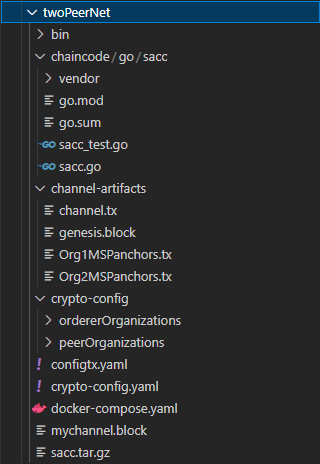
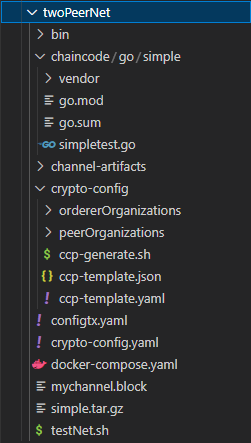
mod

Changed region(s): [[0.0, 0.0, 1.0, 0.9977]]

diff --git a/source/_posts/Project3-Deploy.md b/source/_posts/Project3-Deploy.md
@@ -541,10 +541,11 @@ $ docker exec -it cli2 bash
 
 ### 准备工作
 
-利用 fabric-samples/chaincode/sacc 进行链码测试：
+利用 caliper 中的简单转账链码进行链码测试：
 
 ```Linux
-$ cp -r /fabric-samples/chaincode/sacc /twoPeerNet/chaincode/go
+$ mkdir /twoPeerNet/chaincode/go/simple
+$ cp caliper-benchmarks/src/fabric/scenario/simple/go/* /twoPeerNet/chaincode/go/simple
 ```
 
 在 docker-compose 中，`/twoPeerNet/chaincode/go` 与容器内的目录实现了容器卷映射，将链码复制到该目录下，容器中也有了相应的链码。
@@ -558,7 +559,7 @@ $ cp -r /fabric-samples/chaincode/sacc /twoPeerNet/chaincode/go
 下载依赖：
 
 ```Linux
-# cd /opt/gopath/src/github.com/hyperledger/multiple-deployment/chaincode/go/sacc
+# cd /opt/gopath/src/github.com/hyperledger/multiple-deployment/chaincode/go/simple
 # go mod vendor
 
 # cd /opt/gopath/src/github.com/hyperledger/fabric/peer
@@ -569,15 +570,15 @@ $ cp -r /fabric-samples/chaincode/sacc /twoPeerNet/chaincode/go
 在 cli1 中打包链码：
 
 ```Linux
-# peer lifecycle chaincode package sacc.tar.gz --path /opt/gopath/src/github.com/hyperledger/multiple-deployment/chaincode/go/sacc --label sacc_1.0
+# peer lifecycle chaincode package simple.tar.gz --path /opt/gopath/src/github.com/hyperledger/multiple-deployment/chaincode/go/simple --label simple_1.0
 ```
 
 在容器外将 cli1 中打包的链码复制到 cli2：
 
 ```Linux
-$ docker cp cli1:/opt/gopath/src/github.com/hyperledger/fabric/peer/sacc.tar.gz ./
+$ docker cp cli1:/opt/gopath/src/github.com/hyperledger/fabric/peer/simple.tar.gz ./
 
-$ docker cp ./sacc.tar.gz cli2:/opt/gopath/src/github.com/hyperledger/fabric/peer
+$ docker cp ./simple.tar.gz cli2:/opt/gopath/src/github.com/hyperledger/fabric/peer
 ```
 
 ### 安装链码
@@ -585,7 +586,7 @@ $ docker cp ./sacc.tar.gz cli2:/opt/gopath/src/github.com/hyperledger/fabric/pee
 在两个 cli 中分别操作：
 
 ```Linux
-# peer lifecycle chaincode install sacc.tar.gz
+# peer lifecycle chaincode install simple.tar.gz
 ```
 
 ### 审批链码
@@ -599,13 +600,13 @@ $ docker cp ./sacc.tar.gz cli2:/opt/gopath/src/github.com/hyperledger/fabric/pee
 在两个 cli 中分别操作：
 
 ```Linux
-# peer lifecycle chaincode approveformyorg --channelID mychannel --name sacc --version 1.0 --init-required --package-id sacc_1.0:5562f868f6fd43ff8873f403aa52bc6928161fec933065d0b81e2193f6038bd0 --sequence 1 --tls true --cafile /opt/gopath/src/github.com/hyperledger/fabric/peer/crypto/ordererOrganizations/example.com/orderers/orderer.example.com/msp/tlscacerts/tlsca.example.com-cert.pem
+# peer lifecycle chaincode approveformyorg --channelID mychannel --name simple --version 1.0 --init-required --package-id simple_1.0:539969bf4773133bf852368737a5ba505443ca4d6b5eae92f5f4463fd8bbd171 --sequence 1 --tls true --cafile /opt/gopath/src/github.com/hyperledger/fabric/peer/crypto/ordererOrganizations/example.com/orderers/orderer.example.com/msp/tlscacerts/tlsca.example.com-cert.pem
 ```
 
 检测是否成功：
 
 ```Linux
-# peer lifecycle chaincode checkcommitreadiness --channelID mychannel --name sacc --version 1.0 --init-required --sequence 1 --tls true --cafile /opt/gopath/src/github.com/hyperledger/fabric/peer/crypto/ordererOrganizations/example.com/orderers/orderer.example.com/msp/tlscacerts/tlsca.example.com
+# peer lifecycle chaincode checkcommitreadiness --channelID mychannel --name simple --version 1.0 --init-required --sequence 1 --tls true --cafile /opt/gopath/src/github.com/hyperledger/fabric/peer/crypto/ordererOrganizations/example.com/orderers/orderer.example.com/msp/tlscacerts/tlsca.example.com
 ```
 
 ### 提交链码
@@ -613,33 +614,74 @@ $ docker cp ./sacc.tar.gz cli2:/opt/gopath/src/github.com/hyperledger/fabric/pee
 只需要在 cli1 执行即可：
 
 ```Linux
-# peer lifecycle chaincode commit -o orderer.example.com:7050 --channelID mychannel --name sacc --version 1.0 --init-required --sequence 1 --tls true --cafile /opt/gopath/src/github.com/hyperledger/fabric/peer/crypto/ordererOrganizations/example.com/orderers/orderer.example.com/msp/tlscacerts/tlsca.example.com-cert.pem --peerAddresses peer0.org1.example.com:7051 --tlsRootCertFiles /opt/gopath/src/github.com/hyperledger/fabric/peer/crypto/peerOrganizations/org1.example.com/peers/peer0.org1.example.com/tls/ca.crt --peerAddresses peer0.org2.example.com:8051 --tlsRootCertFiles /opt/gopath/src/github.com/hyperledger/fabric/peer/crypto/peerOrganizations/org2.example.com/peers/peer0.org2.example.com/tls/ca.crt
+# peer lifecycle chaincode commit -o orderer.example.com:7050 --channelID mychannel --name simple --version 1.0 --init-required --sequence 1 --tls true --cafile /opt/gopath/src/github.com/hyperledger/fabric/peer/crypto/ordererOrganizations/example.com/orderers/orderer.example.com/msp/tlscacerts/tlsca.example.com-cert.pem --peerAddresses peer0.org1.example.com:7051 --tlsRootCertFiles /opt/gopath/src/github.com/hyperledger/fabric/peer/crypto/peerOrganizations/org1.example.com/peers/peer0.org1.example.com/tls/ca.crt --peerAddresses peer0.org2.example.com:8051 --tlsRootCertFiles /opt/gopath/src/github.com/hyperledger/fabric/peer/crypto/peerOrganizations/org2.example.com/peers/peer0.org2.example.com/tls/ca.crt
 ```
 
 ### 调用链码
 
-```Linux
-# peer chaincode invoke -o orderer.example.com:7050 -C mychannel -n sacc --isInit --ordererTLSHostnameOverride orderer.example.com --tls true --cafile /opt/gopath/src/github.com/hyperledger/fabric/peer/crypto/ordererOrganizations/example.com/orderers/orderer.example.com/msp/tlscacerts/tlsca.example.com-cert.pem --peerAddresses peer0.org1.example.com:7051 --tlsRootCertFiles /opt/gopath/src/github.com/hyperledger/fabric/peer/crypto/peerOrganizations/org1.example.com/peers/peer0.org1.example.com/tls/ca.crt --peerAddresses peer0.org2.example.com:8051 --tlsRootCertFiles /opt/gopath/src/github.com/hyperledger/fabric/peer/crypto/peerOrganizations/org2.example.com/peers/peer0.org2.example.com/tls/ca.crt -c '{"Args":["a","bb"]}'
+初始化：
 
-# peer chaincode query -C mychannel -n sacc -c '{"Args":["query","a"]}'
+```Linux
+# peer chaincode invoke -o orderer.example.com:7050 -C mychannel -n simple --isInit --ordererTLSHostnameOverride orderer.example.com --tls true --cafile /opt/gopath/src/github.com/hyperledger/fabric/peer/crypto/ordererOrganizations/example.com/orderers/orderer.example.com/msp/tlscacerts/tlsca.example.com-cert.pem --peerAddresses peer0.org1.example.com:7051 --tlsRootCertFiles /opt/gopath/src/github.com/hyperledger/fabric/peer/crypto/peerOrganizations/org1.example.com/peers/peer0.org1.example.com/tls/ca.crt --peerAddresses peer0.org2.example.com:8051 --tlsRootCertFiles /opt/gopath/src/github.com/hyperledger/fabric/peer/crypto/peerOrganizations/org2.example.com/peers/peer0.org2.example.com/tls/ca.crt -c '{"Args":[]}'
 ```
 
-![目录](1.png)
+调用其他方法：
+
+```Linux
+# peer chaincode invoke -o orderer.example.com:7050 -C mychannel -n simple --ordererTLSHostnameOverride orderer.example.com --tls true --cafile /opt/gopath/src/github.com/hyperledger/fabric/peer/crypto/ordererOrganizations/example.com/orderers/orderer.example.com/msp/tlscacerts/tlsca.example.com-cert.pem --peerAddresses peer0.org1.example.com:7051 --tlsRootCertFiles /opt/gopath/src/github.com/hyperledger/fabric/peer/crypto/peerOrganizations/org1.example.com/peers/peer0.org1.example.com/tls/ca.crt --peerAddresses peer0.org2.example.com:8051 --tlsRootCertFiles /opt/gopath/src/github.com/hyperledger/fabric/peer/crypto/peerOrganizations/org2.example.com/peers/peer0.org2.example.com/tls/ca.crt -c '{"Args":["open","Qanly","1000"]}'
+
+# peer chaincode query -C mychannel -n simple -c '{"Args":["query","Qanly"]}'
+```
 
 ## 5 测试一下
 
-按照之前教程安装 fabcar 并使用 Caliper 测试的时候发现报错：找不到 connection-org1.yaml 这个文件，看一下 fabric-sample 网络的启动脚本发现有一个 ccp-generate.sh 脚本是用来生成这个的，把脚本和 .json .yaml 复制过来修改一下再运行就 ok 了。发现测试结果和之前的 fabric-sample 差不多：
+使用 Caliper 测试的时候发现报错：找不到 connection-org1.yaml 这个文件，看一下 fabric-sample 网络的启动脚本发现有一个 ccp-generate.sh 脚本是用来生成这个的，把脚本和 .json .yaml 复制到 `twoPeerNet/crypto-config` 中，修改一下再运行就 ok 了。
+
+![目录](1.png)
+
+记得要先修改 `caliper-benchmarks/networks/fabric/test-network.yaml` 中的配置。
+
+```Linux
+$ cd caliper-benchmarks
+
+$ npx caliper launch manager \
+    --caliper-workspace ./ \
+    --caliper-networkconfig networks/fabric/test-network.yaml \
+    --caliper-benchconfig benchmarks/scenario/simple/config.yaml \
+    --caliper-flow-only-test \
+    --caliper-fabric-gateway-enabled
+```
+
+测试时我生成了 10 个账户，并用 100 的 tps 进行 500 次交易，可以发现大部分都因为读写冲突被中止了，这也正是我毕设项目希望解决的一个问题。
 
 ![结果](2.png)
 
-## 6 清理操作
+## 6 查看日志
+
+创建容器后，可以单独开一个窗口查看输出的日志：
+
+```Linux
+$ docker logs -f peer0.org1.example.com
+$ docker logs -f orderer.example.com
+```
+
+## 7 清理操作
 
 删除上述步骤生成的文件与容器。
 
 ```Linux
 $ docker stop $(docker ps -a -q)
+$ docker ps -a | awk '/fabric/ {print $1}' | xargs -r docker stop
+
 $ docker rm $(docker ps -a -q)
-$ docker volume prune //清除旧的卷
-$ docker network prune //清理网络缓存
-$ docker rmi $(docker images | grep dev)
+$ docker ps -a | awk '/fabric/ {print $1}' | xargs -r docker rm -f
+
+$ docker volume prune // 清除旧的卷
+$ docker volume rm $(docker volume ls -qf 'name=fabric-*')
+
+$ docker network rm fabric_test // 清理网络缓存
+
+$ docker image prune -f //清理 none 镜像
+$ docker rmi $(docker images | grep dev) // 清理链码镜像
+$ docker rmi $(docker images -aq 'hyperledger/fabric-*')
 ```

diff --git a/source/_posts/Project4-Code.md b/source/_posts/Project4-Code.md
@@ -81,7 +81,6 @@ func (e *Endorser) ProcessProposal(ctx context.Context, signedProp *pb.SignedPro
 	// 处理提案并生成提案响应
 	pResp, err := e.ProcessProposalSuccessfullyOrError(up)
 
-	return pResp, nil
 }
 ```
 
@@ -276,17 +275,13 @@ func (c *Chain) Submit(req *orderer.SubmitRequest, sender uint64) error {
 		lead := <-leadC
 
 		// 若当前集群中还没有选出一个 leader，共识功能暂时不可用
-		if lead == raft.None {
-			c.Metrics.ProposalFailures.Add(1)
-			return errors.Errorf("no Raft leader")
-		}
+		if lead == raft.None {...}
 
 		// 若当前节点不是 leader，将消息转发给 leader
 		if lead != c.raftID {
-			if err := c.forwardToLeader(lead, req); err != nil {
-				return err
-			}
+			if err := c.forwardToLeader(lead, req); err != nil {...}
 		}
+		
 	}
 
 }
@@ -673,6 +668,6 @@ func (vdb *versionedDB) ApplyUpdates(batch *statedb.UpdateBatch, height *version
 
 	// 将数据库更新批次写入到版本化数据库中，true 表示要求同步写入。
 	return vdb.db.WriteBatch(dbBatch, true)
-	
+
 }
 ```
